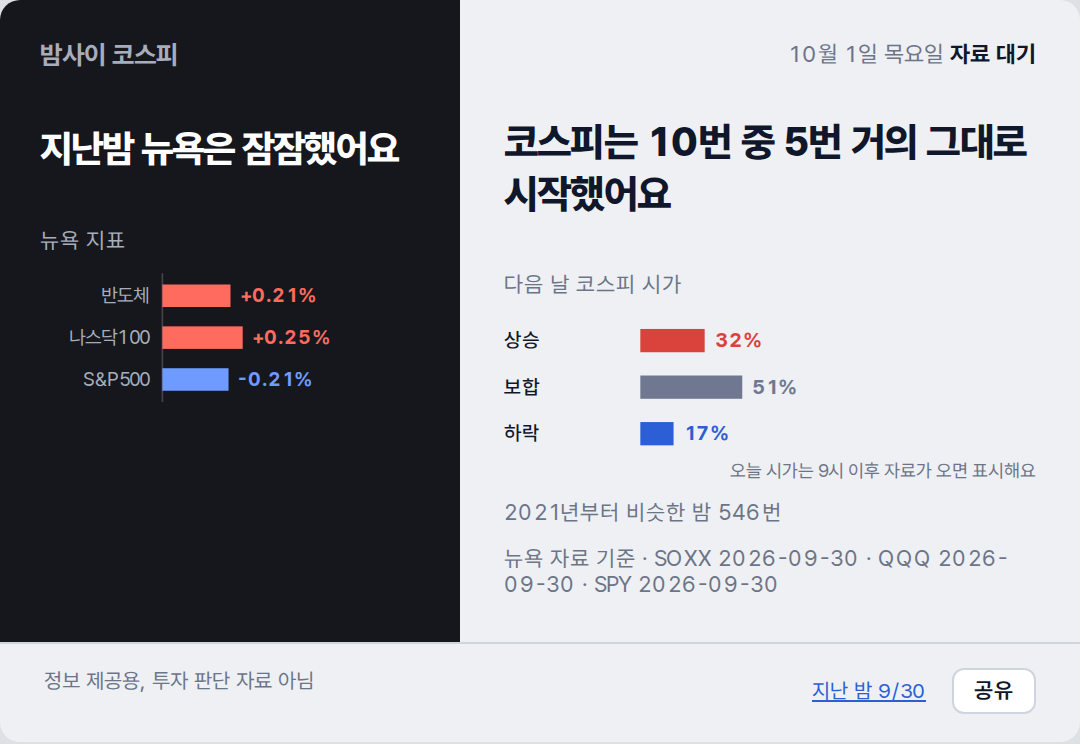
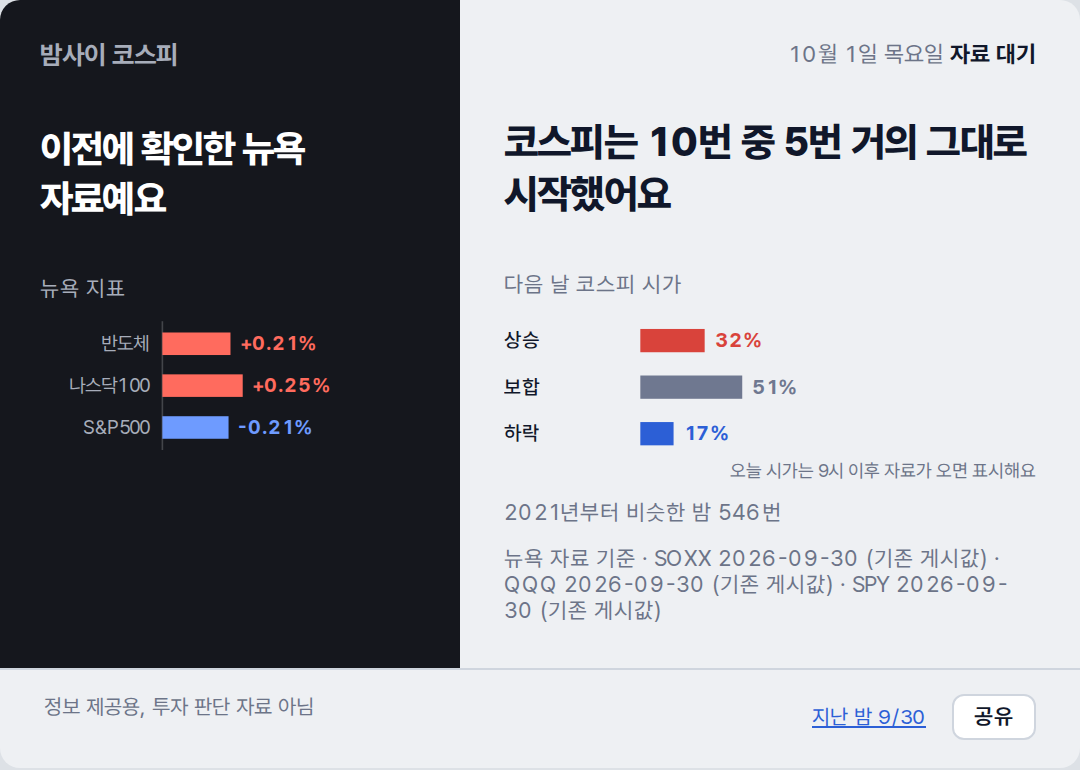
deploy: c0d07a214321b41f7cf333fef670b17ffe5b5852

diff --git a/2026-10-01/index.html b/2026-10-01/index.html
@@ -2,7 +2,7 @@
 <title>밤사이 코스피 · 2026-10-01</title>
 <meta name="description" content="전일 코스피 마감에서 밤사이 뉴욕을 거쳐 오늘 코스피 시가까지, 한 장.">
 <meta property="og:type" content="article"><meta property="og:site_name" content="밤사이 코스피"><meta property="og:url" content="https://mjs0611.github.io/kospi-relay/2026-10-01/">
-<meta property="og:title" content="지난밤 뉴욕은 잠잠했어요"><meta property="og:description" content="코스피는 10번 중 5번 거의 그대로 시작했어요">
+<meta property="og:title" content="이전에 확인한 뉴욕 자료예요"><meta property="og:description" content="코스피는 10번 중 5번 거의 그대로 시작했어요">
 <meta property="og:image" content="https://mjs0611.github.io/kospi-relay/2026-10-01/relay.png"><meta property="og:image:width" content="1080"><meta name="twitter:card" content="summary_large_image">
 <link rel="stylesheet" href="https://cdn.jsdelivr.net/gh/orioncactus/pretendard@v1.3.9/dist/web/variable/pretendardvariable-dynamic-subset.min.css">
 <style>
@@ -26,7 +26,7 @@ footer a{color:#2C5FD6}
 .share{margin-left:10px;border:1px solid #CFD5DE;background:#FFF;color:#10172A;border-radius:6px;padding:4px 10px;font:600 11px var(--sans);cursor:pointer}
 @media (max-width:480px){.sheet{grid-template-columns:1fr}.cond{margin-top:18px}.claim{margin-top:4px}}
 </style></head><body><div class="sheet">
-<section class="night"><p class="brand">밤사이 코스피</p><p class="cond">지난밤 뉴욕은 잠잠했어요</p><p class="lab">뉴욕 지표</p><svg viewBox="0 0 236 84" xmlns="http://www.w3.org/2000/svg" font-family="var(--sans)" font-size="12">
+<section class="night"><p class="brand">밤사이 코스피</p><p class="cond">이전에 확인한 뉴욕 자료예요</p><p class="lab">뉴욕 지표</p><svg viewBox="0 0 236 84" xmlns="http://www.w3.org/2000/svg" font-family="var(--sans)" font-size="12">
 <line x1="76" y1="2" x2="76" y2="82" stroke="var(--rule)" stroke-width="1"/>
 <text x="68" y="20" text-anchor="end" fill="var(--muted)">반도체</text>
 <rect x="76" y="9" width="42.3" height="14" fill="var(--up)"/>
@@ -49,12 +49,12 @@ footer a{color:#2C5FD6}
 <rect x="82" y="65" width="20.0" height="14" fill="var(--down)"/>
 <text x="108.0" y="76" fill="var(--down)" font-weight="700">17%</text>
 <text x="320" y="98" text-anchor="end" fill="var(--muted)" font-size="11">오늘 시가는 9시 이후 자료가 오면 표시해요</text>
-</svg><p class="cap">2021년부터 비슷한 밤 546번</p><p class="cap">뉴욕 자료 기준 · SOXX 2026-09-30 · QQQ 2026-09-30 · SPY 2026-09-30</p></section>
+</svg><p class="cap">2021년부터 비슷한 밤 546번</p><p class="cap">뉴욕 자료 기준 · SOXX 2026-09-30 (기존 게시값) · QQQ 2026-09-30 (기존 게시값) · SPY 2026-09-30 (기존 게시값)</p></section>
 <footer><span>정보 제공용, 투자 판단 자료 아님</span><span style="white-space:nowrap"><a href="../2026-09-30/">지난 밤 9/30</a> <button class="share" type="button">공유</button></span></footer>
 <script>
 /* 공유: Web Share가 있으면 시스템 공유 시트, 없으면 링크 복사. 링크는 이 날짜 페이지(OG 카드 붙음) */
 document.querySelector('.share').addEventListener('click', async function () {
-  var url = 'https://mjs0611.github.io/kospi-relay/2026-10-01/', text = "지난밤 뉴욕은 잠잠했어요. 코스피는 10번 중 5번 거의 그대로 시작했어요";
+  var url = 'https://mjs0611.github.io/kospi-relay/2026-10-01/', text = "이전에 확인한 뉴욕 자료예요. 코스피는 10번 중 5번 거의 그대로 시작했어요";
   try { if (navigator.share) { await navigator.share({ title: '밤사이 코스피', text: text, url: url }); return; } } catch (e) { if (e && e.name === 'AbortError') return; }
   try { await navigator.clipboard.writeText(text + '\n' + url); this.textContent = '링크 복사됨'; } catch (e) { location.href = url; }
 });

diff --git a/index.html b/index.html
@@ -2,7 +2,7 @@
 <title>밤사이 코스피 · 2026-10-01</title>
 <meta name="description" content="전일 코스피 마감에서 밤사이 뉴욕을 거쳐 오늘 코스피 시가까지, 한 장.">
 <meta property="og:type" content="article"><meta property="og:site_name" content="밤사이 코스피"><meta property="og:url" content="https://mjs0611.github.io/kospi-relay/2026-10-01/">
-<meta property="og:title" content="지난밤 뉴욕은 잠잠했어요"><meta property="og:description" content="코스피는 10번 중 5번 거의 그대로 시작했어요">
+<meta property="og:title" content="이전에 확인한 뉴욕 자료예요"><meta property="og:description" content="코스피는 10번 중 5번 거의 그대로 시작했어요">
 <meta property="og:image" content="https://mjs0611.github.io/kospi-relay/2026-10-01/relay.png"><meta property="og:image:width" content="1080"><meta name="twitter:card" content="summary_large_image">
 <link rel="stylesheet" href="https://cdn.jsdelivr.net/gh/orioncactus/pretendard@v1.3.9/dist/web/variable/pretendardvariable-dynamic-subset.min.css">
 <style>
@@ -26,7 +26,7 @@ footer a{color:#2C5FD6}
 .share{margin-left:10px;border:1px solid #CFD5DE;background:#FFF;color:#10172A;border-radius:6px;padding:4px 10px;font:600 11px var(--sans);cursor:pointer}
 @media (max-width:480px){.sheet{grid-template-columns:1fr}.cond{margin-top:18px}.claim{margin-top:4px}}
 </style></head><body><div class="sheet">
-<section class="night"><p class="brand">밤사이 코스피</p><p class="cond">지난밤 뉴욕은 잠잠했어요</p><p class="lab">뉴욕 지표</p><svg viewBox="0 0 236 84" xmlns="http://www.w3.org/2000/svg" font-family="var(--sans)" font-size="12">
+<section class="night"><p class="brand">밤사이 코스피</p><p class="cond">이전에 확인한 뉴욕 자료예요</p><p class="lab">뉴욕 지표</p><svg viewBox="0 0 236 84" xmlns="http://www.w3.org/2000/svg" font-family="var(--sans)" font-size="12">
 <line x1="76" y1="2" x2="76" y2="82" stroke="var(--rule)" stroke-width="1"/>
 <text x="68" y="20" text-anchor="end" fill="var(--muted)">반도체</text>
 <rect x="76" y="9" width="42.3" height="14" fill="var(--up)"/>
@@ -49,12 +49,12 @@ footer a{color:#2C5FD6}
 <rect x="82" y="65" width="20.0" height="14" fill="var(--down)"/>
 <text x="108.0" y="76" fill="var(--down)" font-weight="700">17%</text>
 <text x="320" y="98" text-anchor="end" fill="var(--muted)" font-size="11">오늘 시가는 9시 이후 자료가 오면 표시해요</text>
-</svg><p class="cap">2021년부터 비슷한 밤 546번</p><p class="cap">뉴욕 자료 기준 · SOXX 2026-09-30 · QQQ 2026-09-30 · SPY 2026-09-30</p></section>
+</svg><p class="cap">2021년부터 비슷한 밤 546번</p><p class="cap">뉴욕 자료 기준 · SOXX 2026-09-30 (기존 게시값) · QQQ 2026-09-30 (기존 게시값) · SPY 2026-09-30 (기존 게시값)</p></section>
 <footer><span>정보 제공용, 투자 판단 자료 아님</span><span style="white-space:nowrap"><a href="./2026-09-30/">지난 밤 9/30</a> <button class="share" type="button">공유</button></span></footer>
 <script>
 /* 공유: Web Share가 있으면 시스템 공유 시트, 없으면 링크 복사. 링크는 이 날짜 페이지(OG 카드 붙음) */
 document.querySelector('.share').addEventListener('click', async function () {
-  var url = 'https://mjs0611.github.io/kospi-relay/2026-10-01/', text = "지난밤 뉴욕은 잠잠했어요. 코스피는 10번 중 5번 거의 그대로 시작했어요";
+  var url = 'https://mjs0611.github.io/kospi-relay/2026-10-01/', text = "이전에 확인한 뉴욕 자료예요. 코스피는 10번 중 5번 거의 그대로 시작했어요";
   try { if (navigator.share) { await navigator.share({ title: '밤사이 코스피', text: text, url: url }); return; } } catch (e) { if (e && e.name === 'AbortError') return; }
   try { await navigator.clipboard.writeText(text + '\n' + url); this.textContent = '링크 복사됨'; } catch (e) { location.href = url; }
 });
